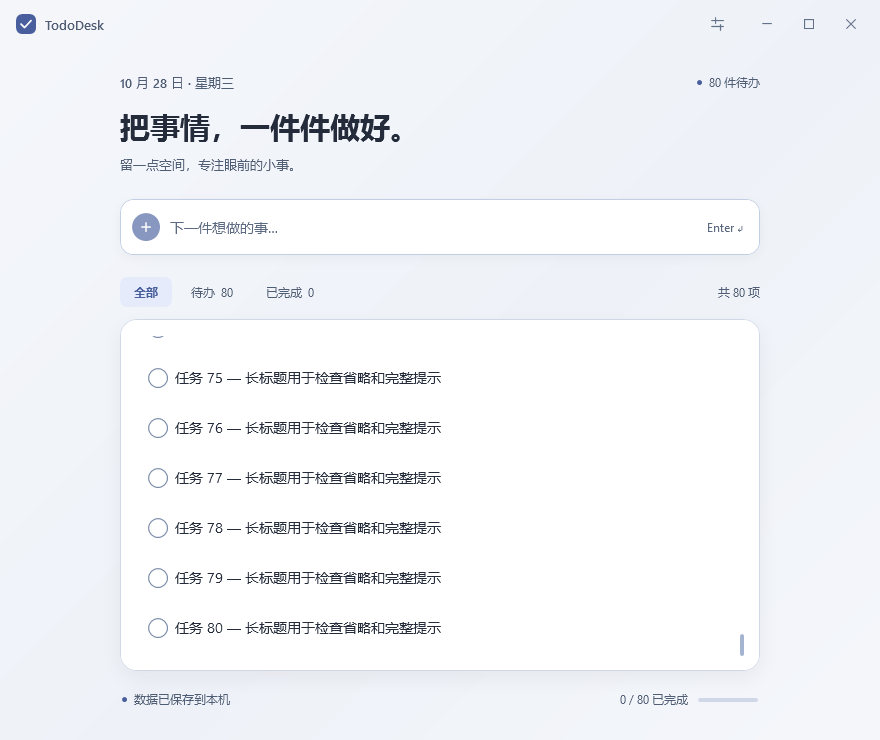
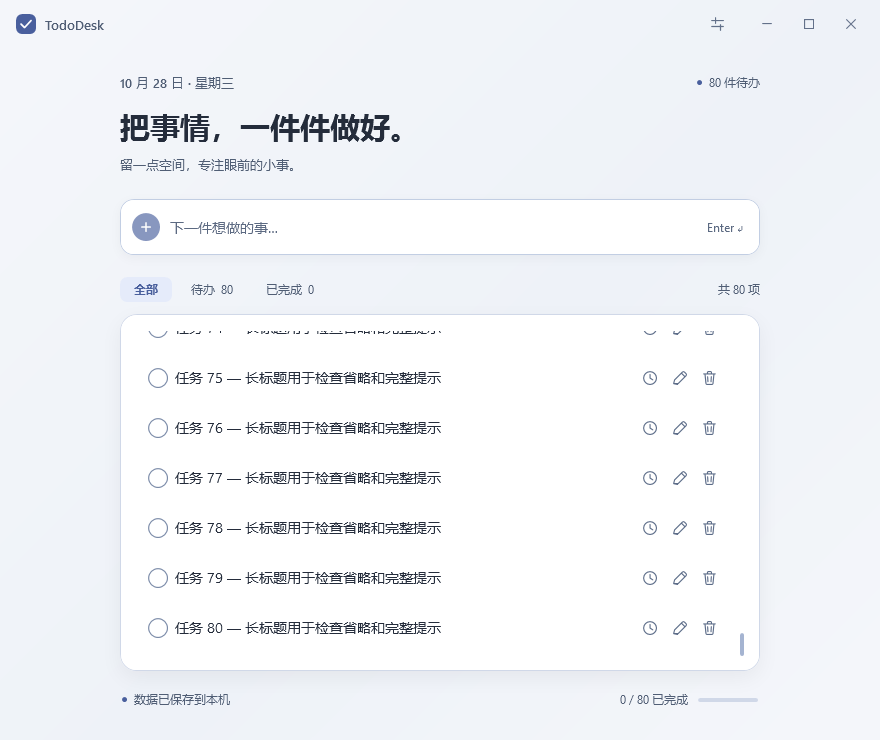
Fix compact labels and add local task reminders

diff --git a/app/ui.xaml b/app/ui.xaml
@@ -712,7 +712,7 @@
                 </Grid>
 
                 <Grid x:Name="TaskArea" Grid.Row="3" Margin="0,22,0,0">
-                    <Grid.RowDefinitions><RowDefinition Height="42"/><RowDefinition Height="*" MinHeight="80"/><RowDefinition Height="45"/></Grid.RowDefinitions>
+                    <Grid.RowDefinitions><RowDefinition Height="Auto"/><RowDefinition Height="*" MinHeight="80"/><RowDefinition Height="45"/></Grid.RowDefinitions>
                     <Grid Grid.Row="0" Margin="0,0,0,12">
                         <StackPanel Orientation="Horizontal">
                             <RadioButton x:Name="FilterAll" Content="全部" Tag="all" IsChecked="True" GroupName="TaskFilter" Style="{StaticResource FilterStyle}" AutomationProperties.Name="查看全部任务"/>

diff --git a/README.md b/README.md
@@ -48,7 +48,15 @@ powershell.exe -NoProfile -STA -ExecutionPolicy Bypass -File .\preview.ps1 -Empt
 
 标题栏支持原生拖动、双击最大化和还原，提供最小化、最大化 / 还原、关闭按钮。最大化边界按当前显示器工作区计算。
 
-进度代表当前清单的完成比例，不是每日统计。不包含提醒、到期日、云同步或自动更新。
+进度代表当前清单的完成比例，不是每日统计。不包含云同步或自动更新。
+
+## 时间提醒
+
+点击任务右侧的时钟按钮，选择日期并输入 24 小时制时间（例如 `09:30`），即可设置提醒。再次点击可修改或取消。设置后，任务标题下方显示提醒时间。
+
+应用运行或最小化时，每 10 秒检查一次，到点弹出独立窗口并播放系统提示音。已完成任务不提醒，同一次提醒不重复弹出。关闭应用期间不会运行后台服务，错过的提醒会在下次打开应用时补发。
+
+时间和已提醒标记保存在原本的 `todos.json` 中，作为可选字段加入；原有清单无需迁移。更改时间会重置已提醒状态。
 
 ## 数据与快捷键
 
@@ -74,6 +82,9 @@ powershell.exe -NoProfile -STA -ExecutionPolicy Bypass -File .\tests\smoke.ps1
 
 # 原生窗口、焦点、命中测试及最大化工作区
 powershell.exe -NoProfile -STA -ExecutionPolicy Bypass -File .\tests\window.ps1
+
+# 提醒保存、触发、取消、最小化弹窗及紧凑文字检查
+powershell.exe -NoProfile -STA -ExecutionPolicy Bypass -File .\tests\reminders.ps1
 
 # 构建单文件：dist/native/DaiBan.exe
 powershell.exe -NoProfile -ExecutionPolicy Bypass -File .\host\build.ps1

diff --git a/CHANGELOG.md b/CHANGELOG.md
@@ -2,6 +2,9 @@
 
 ## 1.3.0 — Unreleased
 
+- Fixed compact filter-label clipping by measuring the row from its content.
+- Added per-task local reminder times, cancellation, overdue catch-up on launch and a separate notification window that works while minimized.
+
 - Updated the palette to cool slate and periwinkle using the supplied visual reference.
 - Centered checkmark geometry, added completed-task strikethrough and enabled a compact 400x400 window with a fitting settings dialog.
 
